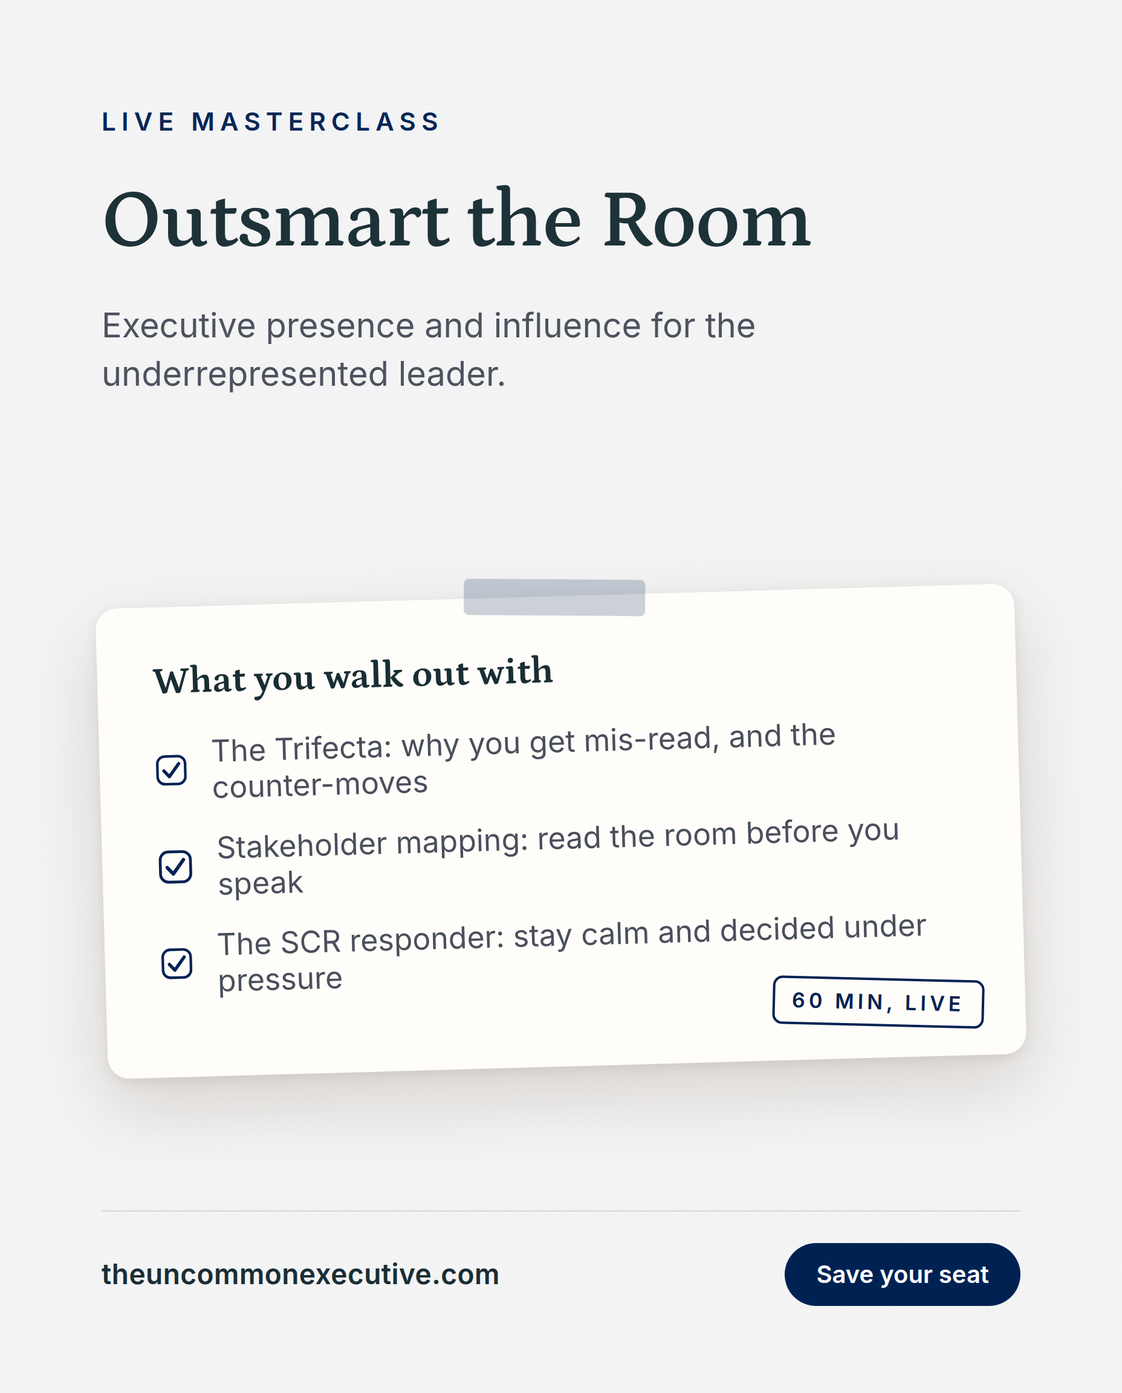
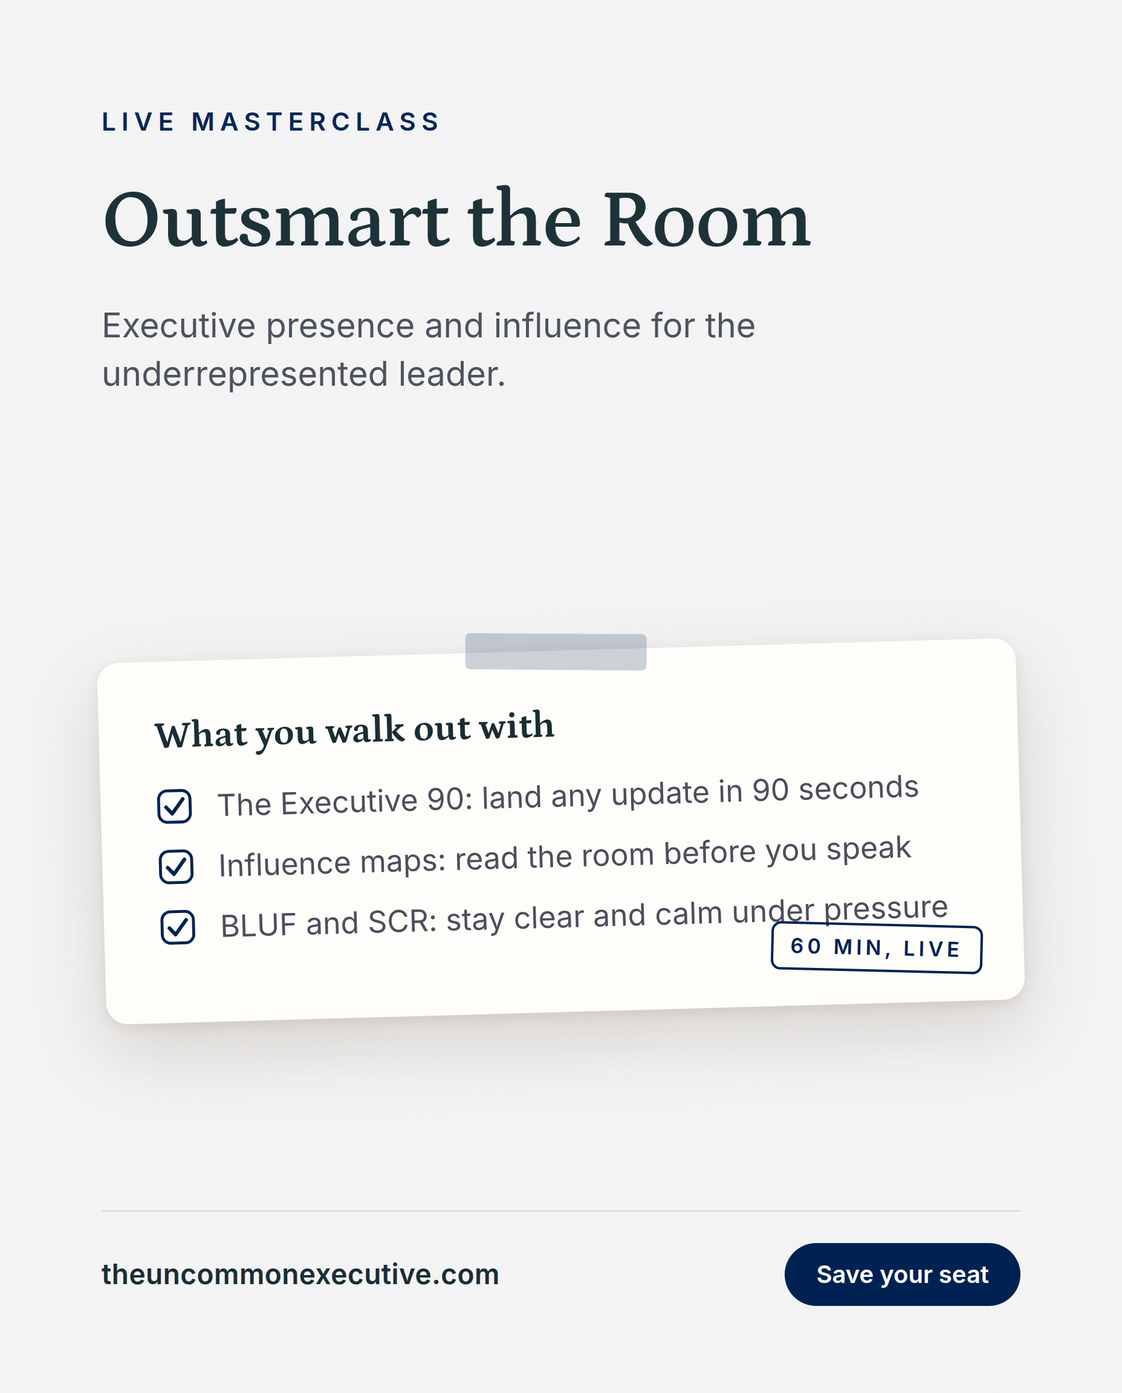
showcase: yue-zhao (refresh — fresh gate6 2026-11-02, verified IP, $950/$2,500 pricing)

Changed region(s): [[0.0938, 0.4062, 0.9062, 0.7812], [0.6562, 0.5, 0.7188, 0.5312]]

diff --git a/yue-zhao/deck.html b/yue-zhao/deck.html
@@ -1,195 +1,99 @@
 <!DOCTYPE html>
 <html lang="en">
 <head>
-<meta charset="UTF-8">
-<meta name="viewport" content="width=device-width, initial-scale=1.0">
-<title>Outsmart the Room | The Uncommon Executive</title>
+<meta charset="utf-8">
+<meta name="viewport" content="width=device-width, initial-scale=1">
+<title>Outsmart the Room — The Uncommon Executive</title>
 <link rel="preconnect" href="https://fonts.googleapis.com">
 <link rel="preconnect" href="https://fonts.gstatic.com" crossorigin>
-<link href="https://fonts.googleapis.com/css2?family=Petrona:ital,wght@0,400;0,500;0,600;0,700;1,400&family=Inter:wght@400;500;600&display=swap" rel="stylesheet">
+<link href="https://fonts.googleapis.com/css2?family=Petrona:ital,wght@0,500;0,600;0,700;1,500&family=Inter:wght@400;500;600;700&display=swap" rel="stylesheet">
 <style>
-  *,*::before,*::after{margin:0;padding:0;box-sizing:border-box;}
   :root{
-    --bg:#f5f5f6;
+    --bg:#f5f5f6;        /* their off-white ground */
     --panel:#ffffff;
-    --rule:#cbe1e6;
-    --ink:#192e34;
-    --ink-soft:#325d68;
-    --accent:#002253;
-    --accent-2:#325d68;
+    --rule:#cbe1e6;      /* their pale blue hairline */
+    --ink:#192e34;       /* their dark teal-black */
+    --muted:#4a5a60;
+    --accent:#002253;    /* their deep navy, brand signature */
+    --spark:#325d68;     /* their teal, secondary accent */
+    --serif:'Petrona',Georgia,serif;
+    --sans:'Inter',system-ui,sans-serif;
   }
-  html,body{height:100%;}
-  body{
-    background:var(--bg);
-    color:var(--ink);
-    font-family:'Inter',-apple-system,system-ui,sans-serif;
-    -webkit-font-smoothing:antialiased;
-    display:flex;align-items:center;justify-content:center;
-    overflow:hidden;
-  }
-  #stage{width:100vw;height:100vh;position:relative;}
-  .slide{
-    position:absolute;inset:0;
-    display:none;
-    flex-direction:column;justify-content:center;
-    padding:8vh 9vw;
-    opacity:0;transition:opacity .3s ease;
-  }
-  .slide.on{display:flex;opacity:1;}
-  .kicker{font-size:14px;font-weight:600;letter-spacing:.16em;text-transform:uppercase;color:var(--accent-2);margin-bottom:22px;}
-  h1{font-family:'Petrona',Georgia,serif;font-weight:600;font-size:clamp(34px,6vw,76px);line-height:1.04;letter-spacing:-.01em;color:var(--accent);}
-  h2{font-family:'Petrona',Georgia,serif;font-weight:600;font-size:clamp(28px,4.4vw,52px);line-height:1.1;color:var(--accent);margin-bottom:18px;}
-  .sub{font-family:'Petrona',Georgia,serif;font-weight:400;font-style:italic;font-size:clamp(18px,2.4vw,30px);color:var(--ink-soft);margin-top:20px;max-width:24ch;}
-  p.body{font-size:clamp(17px,2vw,26px);line-height:1.5;color:var(--ink);max-width:30ch;margin-top:6px;}
-  .part{font-family:'Petrona',Georgia,serif;font-weight:600;font-size:clamp(40px,7vw,92px);color:var(--accent);line-height:1.02;}
-  .part small{display:block;font-family:'Inter';font-weight:600;font-size:14px;letter-spacing:.16em;text-transform:uppercase;color:var(--accent-2);margin-bottom:18px;}
-  ul.pillars{list-style:none;margin-top:10px;max-width:34ch;}
-  ul.pillars li{font-size:clamp(16px,1.9vw,24px);line-height:1.4;padding:14px 0 14px 26px;border-bottom:1px solid var(--rule);position:relative;color:var(--ink);}
-  ul.pillars li:before{content:"";position:absolute;left:0;top:24px;width:10px;height:10px;border-radius:50%;background:var(--accent);}
-  ul.pillars li:last-child{border-bottom:none;}
-  .stats{display:flex;flex-wrap:wrap;gap:40px;margin-top:28px;}
-  .stat .n{font-family:'Petrona',serif;font-weight:700;font-size:clamp(30px,4vw,56px);color:var(--accent);line-height:1;}
-  .stat .l{font-size:14px;color:var(--ink-soft);margin-top:8px;max-width:16ch;}
-  .cta-box{margin-top:30px;padding:26px 30px;background:var(--panel);border:1px solid var(--rule);border-left:5px solid var(--accent);max-width:40ch;}
-  .cta-box .step{font-size:clamp(17px,2vw,24px);font-weight:600;color:var(--accent);}
-  .cta-box .note{font-size:15px;color:var(--ink-soft);margin-top:10px;line-height:1.45;}
-  .disclaimer{font-size:12px;color:#7a8e94;margin-top:26px;max-width:52ch;line-height:1.5;}
-  .nav{position:fixed;bottom:20px;right:26px;font-size:13px;color:var(--ink-soft);font-weight:500;letter-spacing:.04em;}
-  .brandline{position:fixed;bottom:20px;left:26px;font-size:13px;color:var(--ink-soft);font-weight:600;letter-spacing:.06em;}
+  *{box-sizing:border-box;margin:0;padding:0}
+  body{background:var(--bg);color:var(--ink);font-family:var(--sans);line-height:1.5;-webkit-font-smoothing:antialiased}
+  .deck{max-width:960px;margin:0 auto;padding:40px 20px}
+  .slide{background:var(--panel);border:1px solid var(--rule);border-radius:14px;padding:56px;margin:0 0 26px;min-height:430px;display:flex;flex-direction:column;justify-content:center;position:relative;overflow:hidden}
+  .num{position:absolute;top:22px;right:26px;font-size:12px;letter-spacing:.14em;color:var(--muted);text-transform:uppercase}
+  .kick{font-size:12.5px;letter-spacing:.18em;text-transform:uppercase;color:var(--spark);font-weight:600;margin-bottom:18px}
+  h1{font-family:var(--serif);font-weight:700;line-height:1.08;color:var(--accent);letter-spacing:-.01em}
+  .lede{font-family:var(--serif);font-weight:500;font-size:27px;line-height:1.28;color:var(--ink)}
+  p{font-size:18px;color:var(--muted);max-width:60ch}
+  .big{font-family:var(--serif);font-weight:600;font-size:34px;line-height:1.2;color:var(--ink);max-width:26ch}
+  .promise{margin-top:22px;font-size:19px;color:var(--muted);max-width:54ch}
+  ul{list-style:none;margin-top:22px;display:grid;gap:14px}
+  ul li{position:relative;padding-left:26px;font-size:19px;color:var(--ink);max-width:60ch}
+  ul li:before{content:"";position:absolute;left:0;top:10px;width:9px;height:9px;border-radius:2px;background:var(--accent)}
+  .frame{display:grid;grid-template-columns:auto 1fr;gap:24px;align-items:start;margin-top:10px}
+  .tag{font-family:var(--serif);font-weight:700;font-size:38px;color:var(--spark);line-height:1;white-space:nowrap}
+  .fh{font-family:var(--serif);font-weight:600;font-size:28px;color:var(--accent);margin-bottom:8px}
+  .cols{display:grid;grid-template-columns:1fr 1fr;gap:20px;margin-top:26px}
+  .cols .box{background:var(--bg);border:1px solid var(--rule);border-radius:10px;padding:22px}
+  .cols .box .lab{font-size:12px;letter-spacing:.14em;text-transform:uppercase;color:var(--muted);font-weight:600;margin-bottom:10px}
+  .cols .box .val{font-family:var(--serif);font-size:21px;color:var(--ink);line-height:1.3}
+  .stat{display:flex;gap:40px;flex-wrap:wrap;margin-top:28px}
+  .stat .s .n{font-family:var(--serif);font-weight:700;font-size:38px;color:var(--accent)}
+  .stat .s .l{font-size:14px;color:var(--muted);margin-top:4px;max-width:18ch}
+  .quote{font-family:var(--serif);font-style:italic;font-weight:500;font-size:28px;color:var(--ink);line-height:1.3;max-width:32ch}
+  .disc{margin-top:26px;font-size:13px;color:var(--muted);max-width:66ch;line-height:1.5}
+  .ctaband{display:inline-block;margin-top:24px;background:var(--accent);color:#fff;font-weight:600;font-size:17px;padding:14px 26px;border-radius:999px}
+  .foot{position:absolute;bottom:20px;left:56px;font-size:12px;letter-spacing:.1em;text-transform:uppercase;color:var(--muted)}
 </style>
 </head>
 <body>
-<div id="stage"></div>
-<div class="brandline">The Uncommon Executive</div>
-<div class="nav"><span id="cur">1</span> / <span id="tot">1</span></div>
+<div class="deck" id="deck"></div>
 <script>
-const S = [
-  {t:'title',
-   kicker:'The Uncommon Executive with Yue Zhao',
-   h1:'Outsmart the Room',
-   sub:'Executive presence and influence, in the age of AI.'},
-
-  {t:'content',
-   kicker:'The next hour',
-   h2:'Why strong leaders get passed over, and the system that fixes it.',
-   body:'You will leave with the three biases working against you, the counter-moves, and how AI compresses the reps it takes to be read as ready.'},
-
-  {t:'content',
-   kicker:'Who this is for',
-   h2:'You are mid-career, highly rated, and still stuck below the executive level.',
-   body:'A woman or a minority leader who has done the work, earned the reviews, and watched the next seat go to someone with less of a track record.'},
-
-  {t:'content',
-   kicker:'The trap',
-   h2:'You were told to do great work and get noticed.',
-   body:'You did both. It did not move you up. More output and more visibility are not the thing standing between you and the C-suite.'},
-
-  {t:'reframe',
-   kicker:'The reframe',
-   h1:'You are not being passed over for lack of competence.',
-   sub:'You are being misread. And a mis-read is fixable.'},
-
-  {t:'part', small:'Part One', part:'Why you get misread.'},
-
-  {t:'content',
-   kicker:'The Trifecta, bias one',
-   h2:'Affinity bias',
-   body:'Decision-makers advocate hardest for the people who remind them of themselves. When the room does not look like you, that advocacy has to be built on purpose, not assumed.'},
-
-  {t:'content',
-   kicker:'The Trifecta, bias two',
-   h2:'Confirmation bias',
-   body:'A first impression hardens into a story. Once a room decides who you are, every later data point gets filed to fit it, including the ones that should change their mind.'},
-
-  {t:'content',
-   kicker:'The Trifecta, bias three',
-   h2:'Negativity bias',
-   body:'One stumble outweighs ten wins in memory. For an underrepresented leader that math is steeper, so the margin for a visible miss is thinner than it is for your peers.'},
-
-  {t:'part', small:'Part Two', part:'The counter-system.'},
-
-  {t:'framework',
-   kicker:'Counter-move one',
-   h2:'The Bias Counterbalancing Playbook',
-   pillars:['Pre-empt the mis-read before the room forms its story.',
-            'Build the evidence trail so your wins cannot be filed away.',
-            'Reset a hardened impression with a deliberate, repeatable move.']},
-
-  {t:'framework',
-   kicker:'Counter-move two',
-   h2:'Stakeholder Mapping',
-   pillars:['Map who actually holds the decision, not just who is in the room.',
-            'Name what each stakeholder needs to hear to say yes.',
-            'Tailor one message per audience instead of one pitch for everyone.']},
-
-  {t:'framework',
-   kicker:'Counter-move three',
-   h2:'The SCR On-the-Spot Responder',
-   pillars:['Situation: name the context in one calm line.',
-            'Complication: state the real tension without flinching.',
-            'Resolution: land on a decision, not an apology or a ramble.']},
-
-  {t:'content',
-   kicker:'The multiplier',
-   h2:'AI-amplified executive communication',
-   body:'AI will not build your presence for you. It will compress the reps: turn a voice note into an executive update, pressure-test an answer before the meeting, and rehearse the room until calm is your default.'},
-
-  {t:'part', small:'Part Three', part:'What presence looks like.'},
-
-  {t:'content',
-   kicker:'The outcome',
-   h2:'Read as ready before you say a word.',
-   body:'Calm, decided, and clearly senior. Not louder, not more. The same competence, finally landing the way it should with the people who decide.'},
-
-  {t:'why',
-   kicker:'Why learn this from me',
-   h2:'I built this from the inside.',
-   body:'Chief Product and Technology Officer, first PM at Thumbtack, product lead at Instagram, Harvard MBA. I have coached hundreds of leaders into the rooms that passed them over before.',
-   stats:[['300+','leaders coached since 2016'],['1,300+','hours coaching and teaching'],['6 to 9 mo','average time to the next level']]},
-
-  {t:'cta',
-   kicker:'Your next step',
-   h2:'Make the room read you right.',
-   step:'Book an intro call, or join the next live Outsmart the Room cohort.',
-   note:'We map your real rooms, find where the mis-read is happening, and build your counter-system together.',
-   disclaimer:'Educational content only. Coaching outcomes depend on your own effort, role, and circumstances; no specific promotion, compensation, or career result is guaranteed. Results vary.'}
+const S=[
+  {t:'title',kick:'The Uncommon Executive · Live Masterclass',h:'Outsmart the Room',promise:'Executive presence and influence for women and minority leaders, in the age of AI. The 60 minutes that change how the room reads you.'},
+  {t:'who',kick:'Who this is for',big:'You lead the work. You just are not being seen as the leader.',body:'Senior managers, directors, and principal individual contributors who are ready for VP and the C-suite, and keep hearing the same quiet note: strong executor, not quite executive yet.'},
+  {t:'trap',kick:'The trap',big:'Strong reviews. Shipped results. Still passed over.',body:'You have done everything the playbook said. The work is excellent. And somehow the promotion, the airtime, the sponsorship keep going to someone who talks less and delivers less.'},
+  {t:'reframe',kick:'The reframe',h:'You are not being passed over for competence.',promise:'You are being mis-read. Rooms decide who looks like leadership material in seconds, long before they weigh the work. For women and minority leaders that read often starts tilted. This hour is how you set it straight.'},
+  {t:'part',kick:'Part one',h:'The room reads you before you speak.'},
+  {t:'body',kick:'Why the mis-read happens',lede:'Three quiet forces decide the read.',list:['Attention: in a full room, the clearest signal wins, not the deepest work.','Attribution: your wins get spread around, your stumbles stick to your name.','Pattern-match: leadership gets pictured as someone who may not look like you.'],body:'None of this is about your ability. It is about how the signal travels. And signal is a skill you can build.'},
+  {t:'part',kick:'Part two',h:'The system: four frameworks, then AI to run them.'},
+  {t:'frame',kick:'Framework one',tag:'90s',fh:'The Executive 90',body:'Turn any update into a tight, confident 90-second story that earns senior attention and signals you are ready for the next level. Lead with the decision, not the backstory.'},
+  {t:'frame',kick:'Framework two',tag:'BLUF',fh:'Bottom line up front, then SCR',body:'Structure the message so the point lands and sticks: Bottom Line Up Front, then Situation, Complication, Resolution for the hard questions. Clarity under pressure reads as authority.'},
+  {t:'frame',kick:'Framework three',tag:'4P',fh:'The 4P delivery model',body:'Pace, Pitch, Pause, Posture. The same sentence lands as nervous or as decided depending on delivery. These four dials are learnable, and they move the read fast.'},
+  {t:'frame',kick:'Framework four',tag:'MAP',fh:'Influence maps',body:'The informal org chart holds more power than the real one. Map who decides, who influences, and what each person needs to hear, so you spend your airtime where it moves the decision.'},
+  {t:'ai',kick:'The amplifier',h:'Hand the frameworks to AI.',promise:'Once the structures are yours, AI turns rambling voice notes into crisp, tailored updates in seconds, drafts the stakeholder message in each person’s language, and runs your reps between real rooms. The frameworks make you clear. AI makes you fast.'},
+  {t:'part',kick:'Part three',h:'Presence, once the frameworks are yours.'},
+  {t:'cols',kick:'Before and after',cols:[['Before','You over-explain, then watch the room move on. Your update is accurate and forgettable.'],['After','You open with the decision in one line. The room leans in. The follow-up goes to you.']]},
+  {t:'body',kick:'A worked example',lede:'The 90-second summary, live.',list:['One line: the decision you need and why now.','One line: the single risk, and how you have handled it.','One line: what you need from the people in the room.'],body:'Three sentences, delivered with the 4P dials. That is often the whole difference between being heard and being overlooked.'},
+  {t:'why',kick:'Why learn this from Yue',big:'Built the rooms. Now I coach you into them.',stat:[['CPTO','ex-Meta, Thumbtack, McKinsey'],['300+','leaders coached since 2016'],['6-9','average months to promotion'],['94%','renewal and upgrade rate']],body:'Harvard MBA. I led product at Instagram and SMB Ads at Meta, and I have sat on the side of the table that decides who rises. These are the moves that actually change the read.'},
+  {t:'quote',kick:'In their words',quote:'One of the most powerful executive coaches I have ever encountered.',body:'The frameworks are simple on purpose. The work is using them when the room is full and the stakes are real.'},
+  {t:'cta',kick:'Your next step',h:'Get read as the leader you already are.',promise:'Outsmart the Room is a live masterclass on executive presence and influence in the age of AI. Bring one high-stakes conversation you have coming up. You will leave with your 90-second summary written and ready to use.',cta:'Save your seat with The Uncommon Executive',disc:'Educational content only. Outcomes depend on your own effort, role, and circumstances; no specific promotion, compensation, or career result is promised or guaranteed. Individual experiences vary.'}
 ];
-
-const stage=document.getElementById('stage');
-function esc(s){return (s||'').replace(/&/g,'&amp;').replace(/</g,'&lt;').replace(/>/g,'&gt;');}
+const deck=document.getElementById('deck');
 S.forEach((s,i)=>{
-  const d=document.createElement('section');
-  d.className='slide'+(i===0?' on':'');
+  const el=document.createElement('section');el.className='slide';
   let h='';
-  if(s.kicker) h+='<div class="kicker">'+esc(s.kicker)+'</div>';
-  if(s.t==='title'||s.t==='reframe'){
-    h+='<h1>'+esc(s.h1)+'</h1>';
-    if(s.sub) h+='<div class="sub">'+esc(s.sub)+'</div>';
-  } else if(s.t==='part'){
-    h+='<div class="part"><small>'+esc(s.small)+'</small>'+esc(s.part)+'</div>';
-  } else if(s.t==='framework'){
-    h+='<h2>'+esc(s.h2)+'</h2><ul class="pillars">';
-    s.pillars.forEach(p=>h+='<li>'+esc(p)+'</li>');
-    h+='</ul>';
-  } else if(s.t==='why'){
-    h+='<h2>'+esc(s.h2)+'</h2><p class="body">'+esc(s.body)+'</p><div class="stats">';
-    s.stats.forEach(st=>h+='<div class="stat"><div class="n">'+esc(st[0])+'</div><div class="l">'+esc(st[1])+'</div></div>');
-    h+='</div>';
-  } else if(s.t==='cta'){
-    h+='<h2>'+esc(s.h2)+'</h2><div class="cta-box"><div class="step">'+esc(s.step)+'</div><div class="note">'+esc(s.note)+'</div></div>';
-    h+='<div class="disclaimer">'+esc(s.disclaimer)+'</div>';
-  } else {
-    h+='<h2>'+esc(s.h2)+'</h2>';
-    if(s.body) h+='<p class="body">'+esc(s.body)+'</p>';
-  }
-  d.innerHTML=h;
-  stage.appendChild(d);
+  h+='<span class="num">'+(i+1).toString().padStart(2,'0')+' / '+S.length.toString().padStart(2,'0')+'</span>';
+  if(s.kick)h+='<div class="kick">'+s.kick+'</div>';
+  if(s.h)h+='<h1 style="font-size:'+(s.t==='title'?54:40)+'px">'+s.h+'</h1>';
+  if(s.promise)h+='<div class="promise">'+s.promise+'</div>';
+  if(s.big)h+='<div class="big">'+s.big+'</div>';
+  if(s.lede)h+='<div class="lede">'+s.lede+'</div>';
+  if(s.list){h+='<ul>';s.list.forEach(x=>h+='<li>'+x+'</li>');h+='</ul>';}
+  if(s.tag){h+='<div class="frame"><div class="tag">'+s.tag+'</div><div><div class="fh">'+s.fh+'</div><p>'+s.body+'</p></div></div>';}
+  if(s.body && !s.tag)h+='<p style="margin-top:18px">'+s.body+'</p>';
+  if(s.cols){h+='<div class="cols">';s.cols.forEach(c=>h+='<div class="box"><div class="lab">'+c[0]+'</div><div class="val">'+c[1]+'</div></div>');h+='</div>';}
+  if(s.stat){h+='<div class="stat">';s.stat.forEach(x=>h+='<div class="s"><div class="n">'+x[0]+'</div><div class="l">'+x[1]+'</div></div>');h+='</div>';}
+  if(s.quote)h+='<div class="quote">&ldquo;'+s.quote+'&rdquo;</div>';
+  if(s.cta)h+='<div class="ctaband">'+s.cta+'</div>';
+  if(s.disc)h+='<div class="disc">'+s.disc+'</div>';
+  if(s.t==='title'||s.t==='cta')h+='<div class="foot">The Uncommon Executive · theuncommonexecutive.com</div>';
+  el.innerHTML=h;
+  deck.appendChild(el);
 });
-let cur=0;const slides=[...document.querySelectorAll('.slide')];
-document.getElementById('tot').textContent=slides.length;
-function go(n){slides[cur].classList.remove('on');cur=(n+slides.length)%slides.length;slides[cur].classList.add('on');document.getElementById('cur').textContent=cur+1;}
-document.addEventListener('keydown',e=>{if(e.key==='ArrowRight'||e.key===' ')go(cur+1);else if(e.key==='ArrowLeft')go(cur-1);});
-stage.addEventListener('click',()=>go(cur+1));
 </script>
 </body>
 </html>

diff --git a/yue-zhao/index.html b/yue-zhao/index.html
@@ -54,7 +54,7 @@
 <main>
 
   <div class="letterhead">
-    <strong>For Yue Zhao</strong> &nbsp;&middot;&nbsp; from Dustin at 780 Marketing &nbsp;&middot;&nbsp; October 2026
+    <strong>For Yue Zhao</strong> &nbsp;&middot;&nbsp; from Dustin at 780 Marketing &nbsp;&middot;&nbsp; November 2026
   </div>
 
   <h1>Outsmart the Room: Executive Presence in the Age of AI</h1>
@@ -62,7 +62,7 @@
 
   <div class="section">
     <div class="section-label">The masterclass, already built</div>
-    <p>Rather than describe what I would build, I built a piece of it. This is a live 60-minute masterclass drawn entirely from your own work, the Trifecta of biases, the Bias Counterbalancing Playbook, stakeholder mapping, and the SCR responder, ending on your call to action, not mine.</p>
+    <p>Rather than describe what I would build, I built a piece of it. This is a live 60-minute masterclass drawn entirely from your own work, the Executive 90, your BLUF and SCR frameworks, the 4P delivery model, and influence maps, ending on your call to action, not mine.</p>
     <iframe class="deck-embed" src="/yue-zhao/deck.html" allowfullscreen title="Outsmart the Room masterclass"></iframe>
     <div class="deck-caption">Use the arrow keys or click to move through the slides.</div>
   </div>
@@ -70,7 +70,7 @@
   <div class="section">
     <div class="section-label">What a live masterclass could produce each month</div>
     <h2>The numbers</h2>
-    <p>Anchored to your public Outsmart the Room cohort price. Conservative, and before a single Leadership Accelerator call is counted, which is where the larger revenue actually sits.</p>
+    <p>Anchored to your public Outsmart the Room cohort price. Conservative, and before a single Accelerator call is counted, which is where the larger revenue actually sits.</p>
     <table>
       <thead><tr><th>Step</th><th>Conservative</th><th>Moderate</th></tr></thead>
       <tbody>
@@ -79,11 +79,11 @@
         <tr><td>Registrations / month</td><td>100</td><td>150</td></tr>
         <tr><td>Show-up rate</td><td>30%</td><td>35%</td></tr>
         <tr><td>Live attendees</td><td>30</td><td>52</td></tr>
-        <tr><td>Convert to the $799 cohort (3%)</td><td>3</td><td>4 to 5</td></tr>
-        <tr class="hl"><td>Est. cohort revenue / month</td><td>~$2,400</td><td>~$3,600</td></tr>
+        <tr><td>Convert to the $950 cohort (3%)</td><td>3</td><td>4 to 5</td></tr>
+        <tr class="hl"><td>Est. cohort revenue / month</td><td>~$2,850</td><td>~$4,275</td></tr>
       </tbody>
     </table>
-    <p class="fn">Cohort price of $799 is your published Outsmart the Room rate (practice.theuncommonexecutive.com). Your $2,500 Accelerator and your 1:1 coaching are the real upside this same masterclass feeds, and both are left out of the table on purpose to keep the numbers conservative.</p>
+    <p class="fn">Cohort price of $950 is your published Outsmart the Room live-cohort rate (maven.com/yuezhao/execpre). Your $2,500 Accelerator and your 1:1 coaching are the real upside this same masterclass converts into, and both are left out of the table on purpose to keep the numbers conservative.</p>
   </div>
 
   <div class="section">
@@ -93,8 +93,8 @@
     <table>
       <thead><tr><th>Coach</th><th>Focus</th><th>Running ads?</th></tr></thead>
       <tbody>
-        <tr><td>Prashha Dutra Coaching</td><td>Leadership coaching for women</td><td class="running">10 active ads</td></tr>
-        <tr><td>Elisa James</td><td>Voice and presentation coaching</td><td class="running">9 active ads</td></tr>
+        <tr><td>Prashha Dutra Coaching</td><td>Leadership coaching for women</td><td class="running">9 active ads</td></tr>
+        <tr><td>Elisa James</td><td>Voice and presentation coaching</td><td class="running">8 active ads</td></tr>
         <tr><td>Tracy Bianco</td><td>Leadership coaching for women</td><td class="running">8 active ads</td></tr>
         <tr class="you"><td>The Uncommon Executive</td><td>AI-first executive presence for women and minority leaders</td><td class="not-running">Not running any Meta ads yet</td></tr>
       </tbody>
